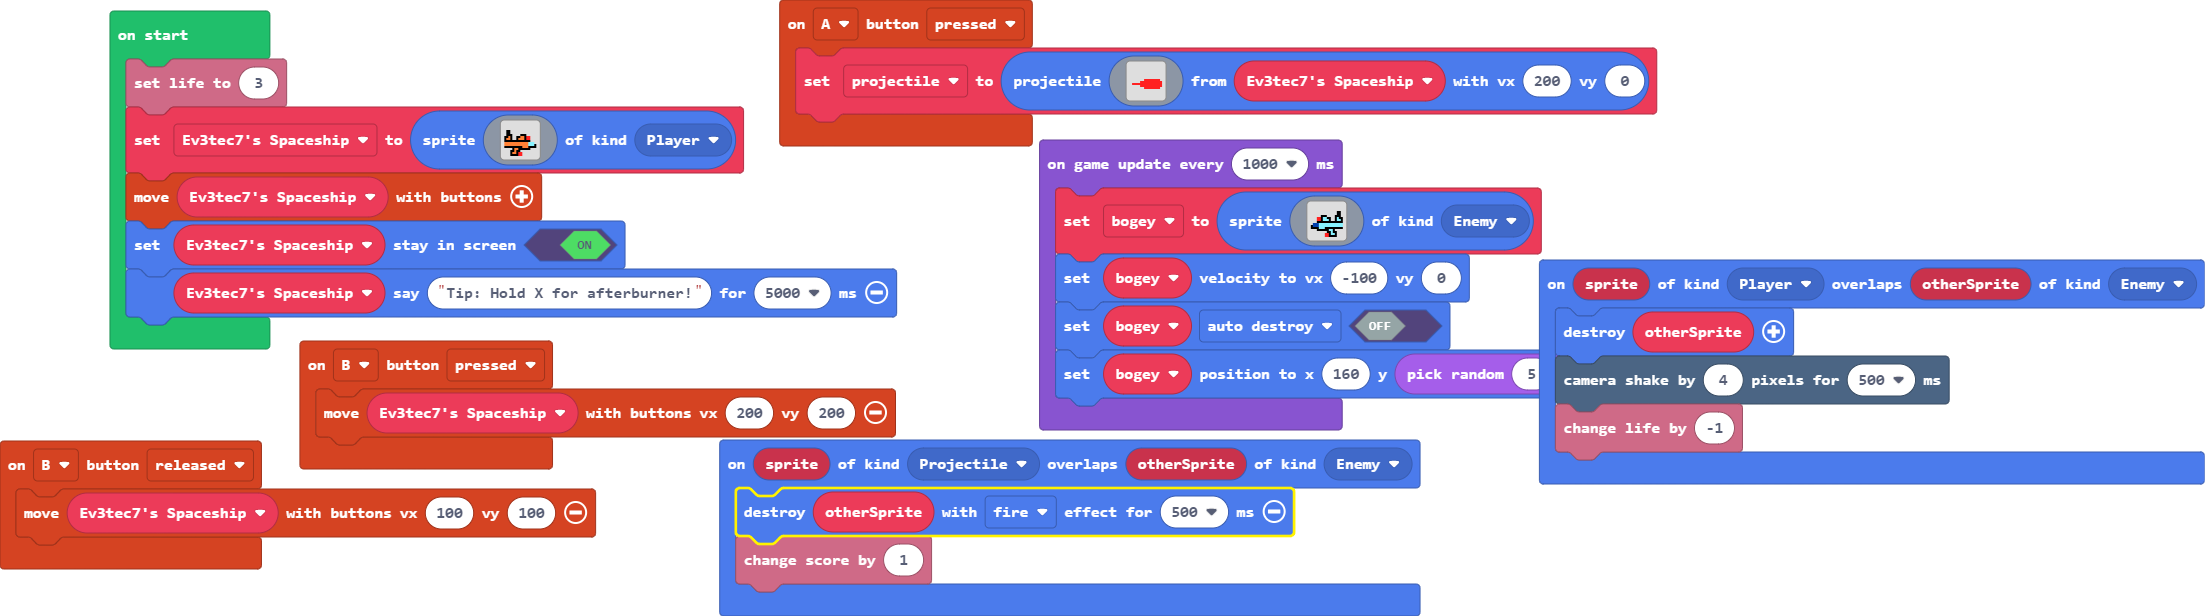
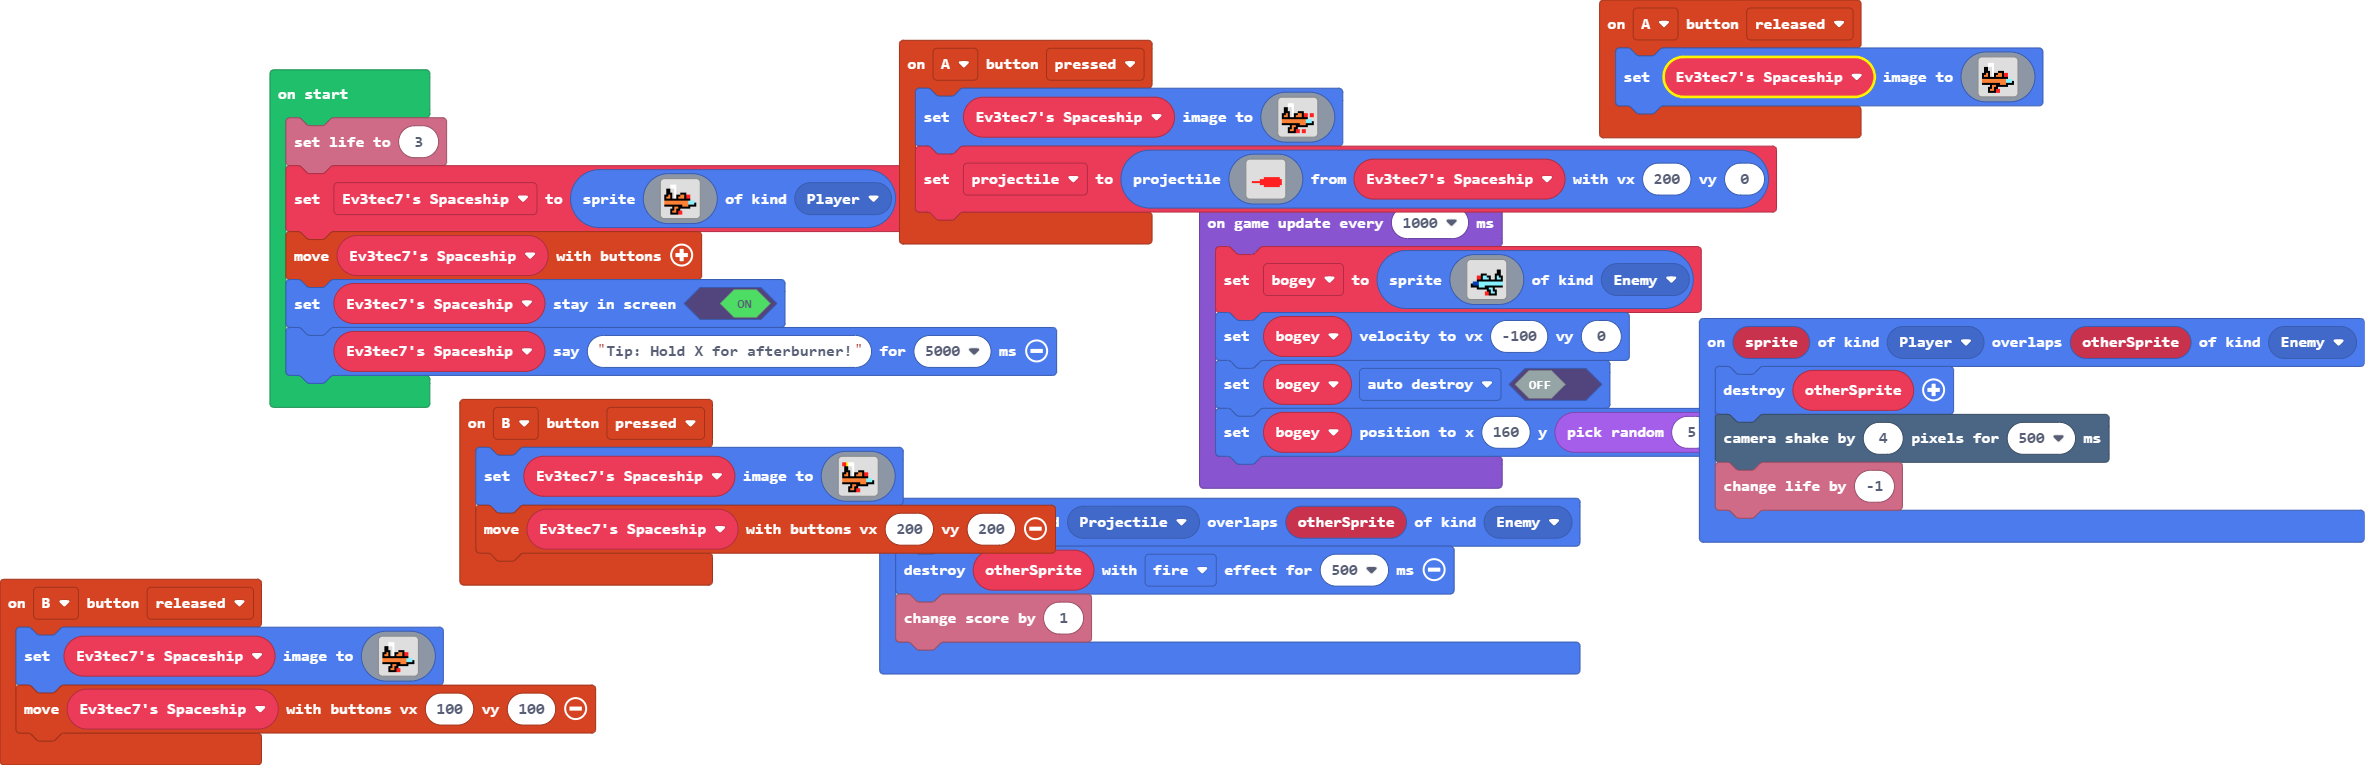
Added animations and afterburner (X to use!)

diff --git a/main.ts b/main.ts
@@ -1,10 +1,84 @@
 controller.B.onEvent(ControllerButtonEvent.Pressed, function () {
+    Ev3tec7s_Spaceship.setImage(img`
+        . . . . . . . . . . . . . . . . 
+        2 2 5 1 1 1 . . . . . . . . . . 
+        2 2 5 1 1 1 . . . . . . . . . . 
+        . f f . . 1 . . . . . . . . . . 
+        . f f . . 1 . . . . . . . . . . 
+        . f f f . 1 . . f f f . . . . . 
+        f f 4 f . 1 f f 4 4 f 2 2 . . . 
+        f 4 4 f . 1 f 4 4 4 f 2 2 . . . 
+        f f f f f f f f f f f f f . . . 
+        4 4 4 4 4 4 4 4 4 4 4 4 9 9 9 . 
+        4 4 4 4 4 4 4 4 4 4 4 4 9 9 9 f 
+        f f f f f f f f f 4 4 4 f f f f 
+        . . . . f 4 4 f f f f f f . . . 
+        . . . f f 4 f f . . . . . . . . 
+        . . . f 4 4 f 2 2 . . . . . . . 
+        . . . f f f f 2 2 . . . . . . . 
+        `)
     controller.moveSprite(Ev3tec7s_Spaceship, 200, 200)
 })
 controller.A.onEvent(ControllerButtonEvent.Pressed, function () {
+    Ev3tec7s_Spaceship.setImage(img`
+        . . . . . . . . . . . . . . . . 
+        . . . 1 1 1 . . . . . . . . . . 
+        . . . 1 1 1 . . . . . . . . . . 
+        . f f . . 1 . . . . . . . . . . 
+        . f f . . 1 . . . . . . . . . . 
+        . f f f . 1 . . f f f . . . . . 
+        f f 4 f . 1 f f 4 4 f 2 2 . 2 2 
+        f 4 4 f . 1 f 4 4 4 f 2 2 . 2 2 
+        f f f f f f f f f f f f f . . . 
+        4 4 4 4 4 4 4 4 4 4 4 4 9 9 9 . 
+        4 4 4 4 4 4 4 4 4 4 4 4 9 9 9 f 
+        f f f f f f f f f 4 4 4 f f f f 
+        . . . . f 4 4 f f f f f f . . . 
+        . . . f f 4 f f . . . . . . . . 
+        . . . f 4 4 f 2 2 . 2 2 . . . . 
+        . . . f f f f 2 2 . 2 2 . . . . 
+        `)
     projectile = sprites.createProjectileFromSprite(assets.image`laser`, Ev3tec7s_Spaceship, 200, 0)
 })
+controller.A.onEvent(ControllerButtonEvent.Released, function () {
+    Ev3tec7s_Spaceship.setImage(img`
+        . . . . . . . . . . . . . . . . 
+        . . . 1 1 1 . . . . . . . . . . 
+        . . . 1 1 1 . . . . . . . . . . 
+        . f f . . 1 . . . . . . . . . . 
+        . f f . . 1 . . . . . . . . . . 
+        . f f f . 1 . . f f f . . . . . 
+        f f 4 f . 1 f f 4 4 f 2 2 . . . 
+        f 4 4 f . 1 f 4 4 4 f 2 2 . . . 
+        f f f f f f f f f f f f f . . . 
+        4 4 4 4 4 4 4 4 4 4 4 4 9 9 9 . 
+        4 4 4 4 4 4 4 4 4 4 4 4 9 9 9 f 
+        f f f f f f f f f 4 4 4 f f f f 
+        . . . . f 4 4 f f f f f f . . . 
+        . . . f f 4 f f . . . . . . . . 
+        . . . f 4 4 f 2 2 . . . . . . . 
+        . . . f f f f 2 2 . . . . . . . 
+        `)
+})
 controller.B.onEvent(ControllerButtonEvent.Released, function () {
+    Ev3tec7s_Spaceship.setImage(img`
+        . . . . . . . . . . . . . . . . 
+        . . . 1 1 1 . . . . . . . . . . 
+        . . . 1 1 1 . . . . . . . . . . 
+        . f f . . 1 . . . . . . . . . . 
+        . f f . . 1 . . . . . . . . . . 
+        . f f f . 1 . . f f f . . . . . 
+        f f 4 f . 1 f f 4 4 f 2 2 . . . 
+        f 4 4 f . 1 f 4 4 4 f 2 2 . . . 
+        f f f f f f f f f f f f f . . . 
+        4 4 4 4 4 4 4 4 4 4 4 4 9 9 9 . 
+        4 4 4 4 4 4 4 4 4 4 4 4 9 9 9 f 
+        f f f f f f f f f 4 4 4 f f f f 
+        . . . . f 4 4 f f f f f f . . . 
+        . . . f f 4 f f . . . . . . . . 
+        . . . f 4 4 f 2 2 . . . . . . . 
+        . . . f f f f 2 2 . . . . . . . 
+        `)
     controller.moveSprite(Ev3tec7s_Spaceship, 100, 100)
 })
 sprites.onOverlap(SpriteKind.Projectile, SpriteKind.Enemy, function (sprite, otherSprite) {

diff --git a/images.g.ts b/images.g.ts
@@ -794,25 +794,6 @@ namespace myImages {
 . . . . . . . . . . . . . . . . 
 . . . . . . . . . . . . . . . . 
 `;
-            case "f$C-su/oi(b6sd:oLx#l":
-            case "Ev3tec7s plane":return img`
-. . . . . . . . . . . . . . . . 
-. . . . . . . . . . . . . . . . 
-. . . . . . . . . . . . . . . . 
-. f f . . . . . . . . . . . . . 
-. f f . . . . . . . . . . . . . 
-. f f f . . . . f f f . . . . . 
-f f 4 f . . f f 4 4 f 2 2 . . . 
-f 4 4 f . . f 4 4 4 f 2 2 . . . 
-f f f f f f f f f f f f f . . . 
-4 4 4 4 4 4 4 4 4 4 4 4 9 9 9 . 
-4 4 4 4 4 4 4 4 4 4 4 4 9 9 9 f 
-f f f f f f f f f 4 4 4 f f f f 
-. . . . f 4 4 f f f f f f . . . 
-. . . f f 4 f f . . . . . . . . 
-. . . f 4 4 f 2 2 . . . . . . . 
-. . . f f f f 2 2 . . . . . . . 
-`;
             case "hA_e/bc#hX#(n6Ia`B+n":
             case "Madhavs plane":return img`
 . . . . . . . . . . . . . . . . 
@@ -831,6 +812,25 @@ f f f f 9 9 9 f f f f f f f f f
 . . . . . . . . f f 9 f f . . . 
 . . . . . . . 2 2 f 9 9 f . . . 
 . . . . . . . 2 2 f f f f . . . 
+`;
+            case "f$C-su/oi(b6sd:oLx#l":
+            case "Ev3tec7s plane":return img`
+. . . . . . . . . . . . . . . . 
+. . . 1 1 1 . . . . . . . . . . 
+. . . 1 1 1 . . . . . . . . . . 
+. f f . . 1 . . . . . . . . . . 
+. f f . . 1 . . . . . . . . . . 
+. f f f . 1 . . f f f . . . . . 
+f f 4 f . 1 f f 4 4 f 2 2 . . . 
+f 4 4 f . 1 f 4 4 4 f 2 2 . . . 
+f f f f f f f f f f f f f . . . 
+4 4 4 4 4 4 4 4 4 4 4 4 9 9 9 . 
+4 4 4 4 4 4 4 4 4 4 4 4 9 9 9 f 
+f f f f f f f f f 4 4 4 f f f f 
+. . . . f 4 4 f f f f f f . . . 
+. . . f f 4 f f . . . . . . . . 
+. . . f 4 4 f 2 2 . . . . . . . 
+. . . f f f f 2 2 . . . . . . . 
 `;
         }
         return null;
